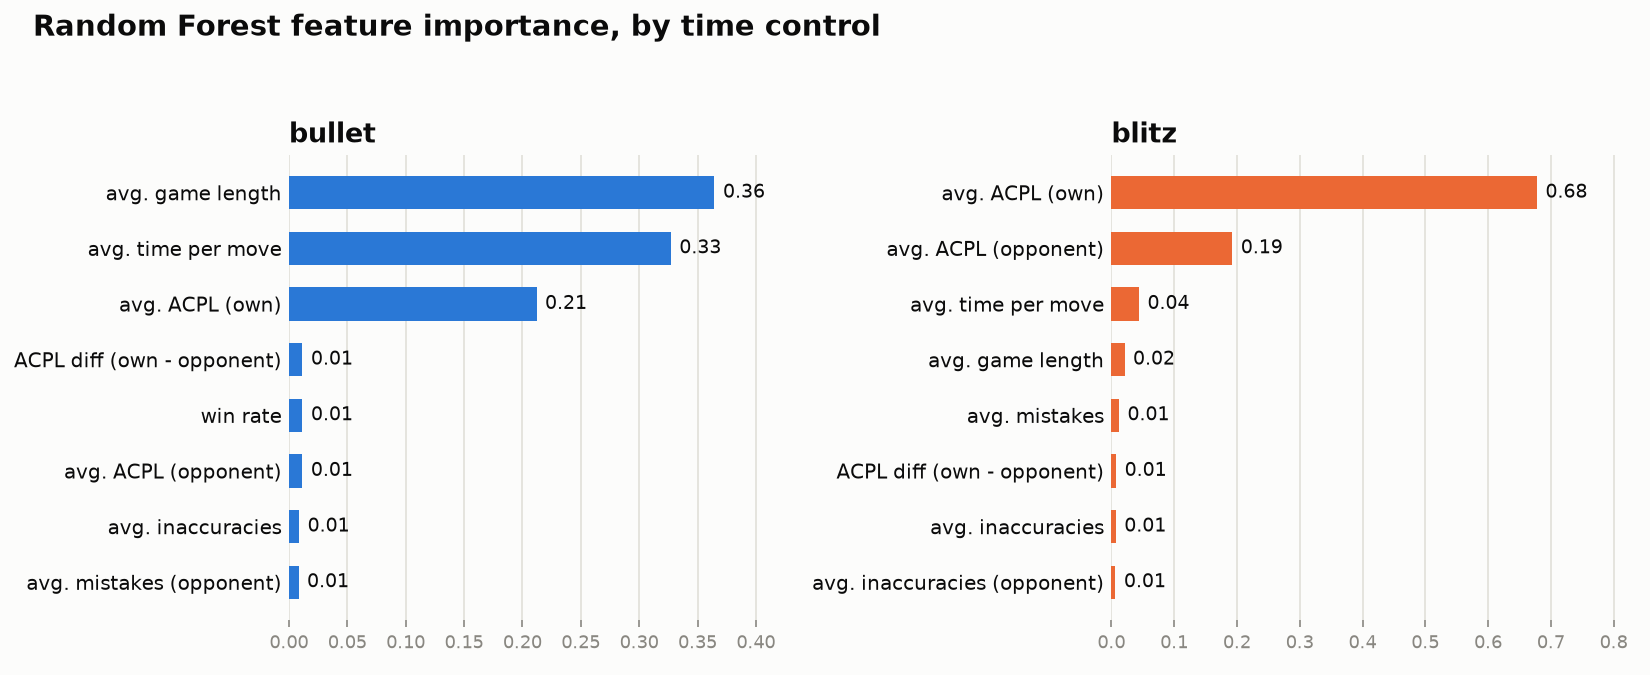
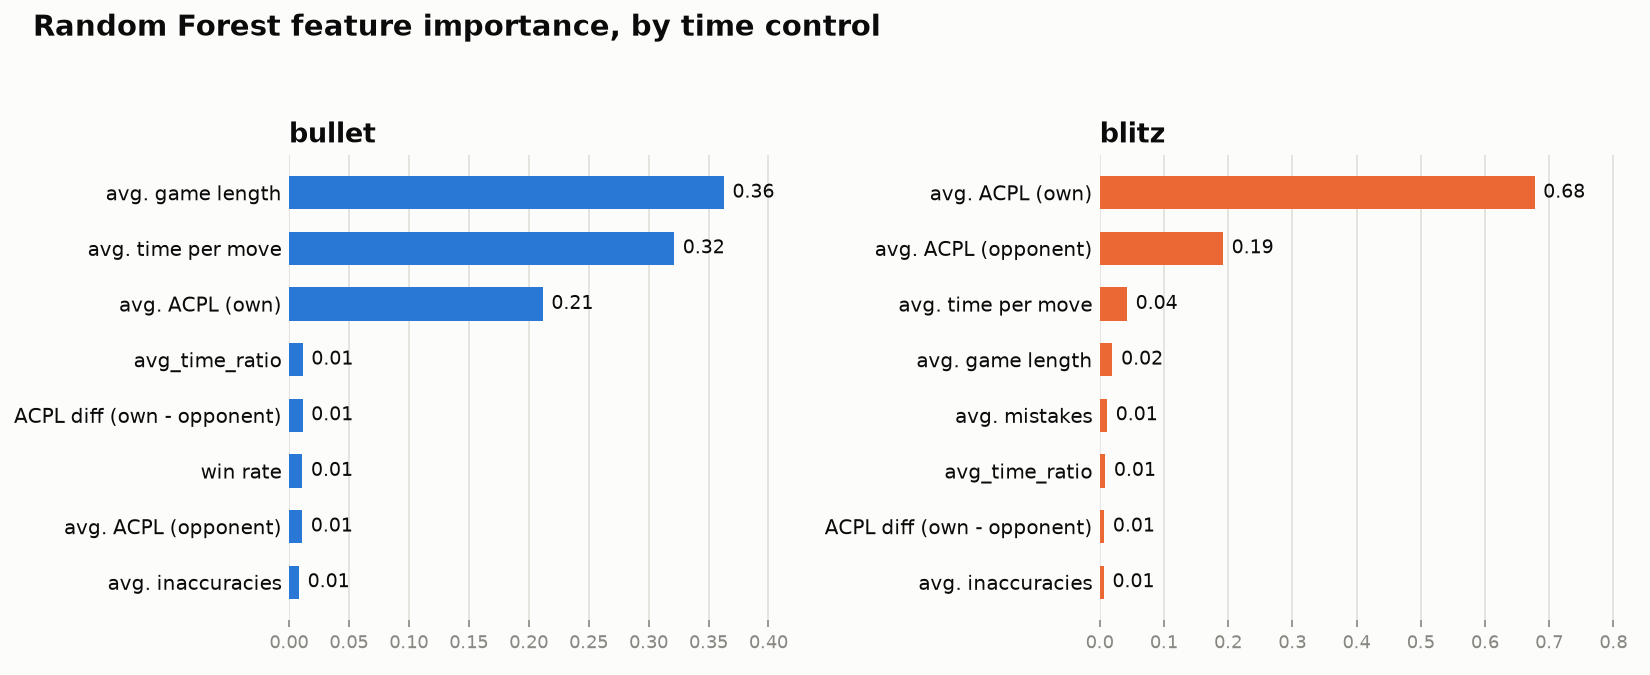
Add time_ratio feature and a spot-check script against unseen players
- extract_clock_features.py: also compute time_ratio (time spent as a
  fraction of that game's own base+increment budget), alongside the raw
  avg_time_per_move. Raw seconds-per-move isn't comparable across time
  controls that share a speed category but have very different clocks
  (60+0 is ~82% of the bullet dataset, but 120+1 has roughly double the
  budget) -- caught from a real player, exclusively 120+1, mispredicted
  by 500+ Elo. Kept alongside the raw feature rather than replacing it:
  a direct test of replacing showed the raw feature carries real signal
  of its own (bullet R^2 0.889 -> 0.847 when removed), so this doesn't
  fully fix predictions for minority-time-control players, but does give
  a small net improvement overall (bullet MAE 196->192, blitz 170->164).
- src/spot_check.py (new): validates a trained model against random
  players from the FULL eligible pool (e.g. 420K for bullet) rather than
  just the ~3,300 actually used for training -- fetches their games live
  from the Lichess API, runs them through the same pipeline app.py uses.
  On a first run this scored BETTER than the formal held-out test MAE
  (155 vs 196), a reassuring sign against overfitting to the training
  distribution.
- README: document both of the above, including the honest limitation of
  the time_ratio fix.

diff --git a/src/spot_check.py b/src/spot_check.py
@@ -1,0 +1,120 @@
+"""
+spot_check.py
+
+Sanity-checks a trained model against RANDOM eligible players from the
+full Lichess dump who were NOT part of the curated training set (the
+formal held-out test set is still a random sample, but only from the
+~3,000-3,400 players select_games_by_player.py actually picked -- this
+instead draws from the full eligible pool, e.g. ~420K bullet players,
+almost none of which the model has ever "seen" even indirectly).
+
+Fetches each sampled player's recent games live from the Lichess API
+(same mechanism app.py uses), analyzes them with Stockfish at the same
+depth training used, and compares the prediction to their actual
+(reported) Elo -- reusing predict_from_pgn.py so this is the exact same
+code path a real user of the Streamlit app would go through.
+
+Usage:
+    python src/spot_check.py --speed-category bullet --n-players 15
+"""
+
+import argparse
+import json
+import random
+import time
+
+import chess.engine
+import joblib
+import pandas as pd
+
+from analyze_with_stockfish import STOCKFISH_PATH
+from lichess_api import fetch_games_pgn, LichessApiError
+from predict_from_pgn import (
+    parse_games_for_player,
+    analyze_player_games,
+    aggregate_player_rows,
+    build_model_input,
+    MIN_GAMES_REQUIRED,
+)
+
+ELIGIBLE_CACHE_PATH = "data/processed/eligible_players_by_category.json"
+DEPTH = 12
+GAMES_PER_PLAYER = 10
+DELAY_BETWEEN_REQUESTS = 3  # seconds; respectful of Lichess's "one request at a time" limit
+
+
+def pick_unseen_players(speed_category: str, n_players: int, already_used: set, seed: int) -> list:
+    with open(ELIGIBLE_CACHE_PATH, encoding="utf-8") as f:
+        eligible = set(json.load(f)[speed_category])
+    candidates = list(eligible - already_used)
+    random.Random(seed).shuffle(candidates)
+    return candidates[: n_players * 3]  # oversample -- some will have too few usable games or fail to fetch
+
+
+def main():
+    parser = argparse.ArgumentParser(
+        description="Spot-checks a trained model against random eligible players outside the training set."
+    )
+    parser.add_argument("--speed-category", required=True, choices=["bullet", "blitz"])
+    parser.add_argument("--n-players", type=int, default=15)
+    parser.add_argument("--seed", type=int, default=0)
+    args = parser.parse_args()
+
+    trained_on = pd.read_csv(f"data/processed/players_{args.speed_category}.csv")
+    already_used = set(trained_on["username"].astype(str))
+    candidates = pick_unseen_players(args.speed_category, args.n_players, already_used, args.seed)
+    print(f"Trying up to {len(candidates)} candidate players to find {args.n_players} usable ones...\n")
+
+    bundle = joblib.load(f"models/model_{args.speed_category}.joblib")
+    engine = chess.engine.SimpleEngine.popen_uci(STOCKFISH_PATH)
+
+    results = []
+    try:
+        for username in candidates:
+            if len(results) >= args.n_players:
+                break
+
+            time.sleep(DELAY_BETWEEN_REQUESTS)
+            try:
+                pgn_text = fetch_games_pgn(username, args.speed_category, GAMES_PER_PLAYER)
+            except LichessApiError as error:
+                print(f"  [skip] {username}: {error}")
+                continue
+            if not pgn_text.strip():
+                print(f"  [skip] {username}: no games returned")
+                continue
+
+            games = parse_games_for_player(pgn_text, username)
+            if len(games) < MIN_GAMES_REQUIRED:
+                print(f"  [skip] {username}: only {len(games)} games")
+                continue
+
+            rows = analyze_player_games(games, username, engine, DEPTH)
+            try:
+                features = aggregate_player_rows(rows, args.speed_category)
+            except ValueError as error:
+                print(f"  [skip] {username}: {error}")
+                continue
+
+            X = build_model_input(features, bundle["feature_columns"], bundle["top_eco"])
+            predicted = bundle["model"].predict(X)[0]
+            actual = features["reported_elo"]
+            error = abs(predicted - actual)
+            results.append((username, actual, predicted, error))
+            print(f"  {username}: actual={actual:.0f}  predicted={predicted:.0f}  error={error:.0f}")
+    finally:
+        engine.quit()
+
+    if not results:
+        print("\nNo usable players found.")
+        return
+
+    df = pd.DataFrame(results, columns=["username", "actual", "predicted", "abs_error"])
+    print(f"\n--- Spot-check results ({args.speed_category}, n={len(df)}) ---")
+    print(f"Mean absolute error:   {df['abs_error'].mean():.1f}")
+    print(f"Median absolute error: {df['abs_error'].median():.1f}")
+    print(f"(for reference, the formal held-out test MAE was {bundle['test_mae']:.1f})")
+
+
+if __name__ == "__main__":
+    main()

diff --git a/src/extract_clock_features.py b/src/extract_clock_features.py
@@ -17,6 +17,20 @@ For each game, computes how many seconds each player spent per move
 that per player across their games -- same "own_"/long-format shape as
 aggregate_by_player.py, so it merges into the same pipeline.
 
+Also computes a NORMALIZED version, time_ratio = avg_time_per_move /
+time_budget(time_control), where time_budget is the same base + 40 *
+increment estimate select_games_by_player.py and aggregate_by_player.py
+use for speed-category classification. Raw seconds-per-move isn't
+comparable across time controls that both count as, say, "bullet" but
+have very different clocks -- a 120+1 bullet game hands out roughly
+double the time budget of a 60+0 one, so a player who exclusively plays
+120+1 will show a higher avg_time_per_move than an equally-skilled 60+0
+player for reasons that have nothing to do with skill. This was caught
+from a real mispredicted player (~1890 actual vs ~1350 predicted) who
+turned out to play 120+1 exclusively, in a bullet dataset that's ~82%
+60+0. time_ratio expresses time usage as a fraction of the game's own
+budget, so it's comparable across variants of the same speed category.
+
 Output has one row per game (same order as the input PGN, none skipped),
 so it lines up positionally with the games_engine.csv row order in the
 same run -- aggregate_by_player.py's --clock-input option checks this
@@ -56,6 +70,18 @@ def parse_time_control(time_control: str):
         return None, None
 
 
+def time_budget(time_control: str):
+    """Same estimate select_games_by_player.py/aggregate_by_player.py use
+    for speed-category classification (base + 40 * increment) -- reused
+    here as the denominator for time_ratio, so "spent X% of a typical
+    allotment per move" means the same thing regardless of which specific
+    base+increment combination a game used."""
+    base, increment = parse_time_control(time_control)
+    if base is None:
+        return None
+    return base + 40 * increment
+
+
 def per_move_times(game: chess.pgn.Game) -> tuple:
     """Returns (white_seconds_per_move, black_seconds_per_move): lists of
     how many seconds each player spent on each of their moves, computed
@@ -88,14 +114,30 @@ def extract_rows(input_path: str) -> list:
 
             headers = game.headers
             white_times, black_times = per_move_times(game)
+            white_avg = (sum(white_times) / len(white_times)) if white_times else None
+            black_avg = (sum(black_times) / len(black_times)) if black_times else None
+
+            # "fair share" per move for THIS game's specific clock, assuming
+            # ~40 moves/side (same assumption select_games_by_player.py's
+            # speed-category estimate makes) -- dividing by this turns an
+            # absolute seconds-per-move number into "typical pace" (~1.0),
+            # "faster than typical" (<1), "slower" (>1), comparable across
+            # different base+increment combinations within the same speed
+            # category (e.g. 60+0 vs 120+1, both "bullet").
+            budget = time_budget(headers.get("TimeControl", ""))
+            per_move_share = budget / 40 if budget else None
+            white_ratio = (white_avg / per_move_share) if (white_avg is not None and per_move_share) else None
+            black_ratio = (black_avg / per_move_share) if (black_avg is not None and per_move_share) else None
 
             rows.append({
                 "white": headers.get("White", ""),
                 "black": headers.get("Black", ""),
                 "white_elo": headers.get("WhiteElo", ""),
                 "black_elo": headers.get("BlackElo", ""),
-                "white_avg_time_per_move": (sum(white_times) / len(white_times)) if white_times else None,
-                "black_avg_time_per_move": (sum(black_times) / len(black_times)) if black_times else None,
+                "white_avg_time_per_move": white_avg,
+                "black_avg_time_per_move": black_avg,
+                "white_time_ratio": white_ratio,
+                "black_time_ratio": black_ratio,
             })
 
     return rows

diff --git a/src/aggregate_by_player.py b/src/aggregate_by_player.py
@@ -88,12 +88,12 @@ def estimate_speed_category(time_control: str) -> str:
 
 
 def merge_clock_features(games: pd.DataFrame, clock_path: str) -> pd.DataFrame:
-    """Merges in white_avg_time_per_move / black_avg_time_per_move from
-    extract_clock_features.py's output. The two files are matched by ROW
-    POSITION (both come from processing the same PGN in the same order),
-    so this checks White/Black Elo line up before trusting the merge --
-    if they don't, the clock columns are skipped entirely rather than
-    silently attaching the wrong game's time data to a player."""
+    """Merges in white/black_avg_time_per_move and white/black_time_ratio
+    from extract_clock_features.py's output. The two files are matched by
+    ROW POSITION (both come from processing the same PGN in the same
+    order), so this checks White/Black Elo line up before trusting the
+    merge -- if they don't, the clock columns are skipped entirely rather
+    than silently attaching the wrong game's time data to a player."""
     clock = pd.read_csv(clock_path)
 
     if len(clock) != len(games):
@@ -109,8 +109,9 @@ def merge_clock_features(games: pd.DataFrame, clock_path: str) -> pd.DataFrame:
         return games
 
     games = games.copy()
-    games["white_avg_time_per_move"] = clock["white_avg_time_per_move"].values
-    games["black_avg_time_per_move"] = clock["black_avg_time_per_move"].values
+    for col in ("white_avg_time_per_move", "black_avg_time_per_move", "white_time_ratio", "black_time_ratio"):
+        if col in clock.columns:
+            games[col] = clock[col].values
     return games
 
 
@@ -130,6 +131,7 @@ def to_long_format(games: pd.DataFrame) -> pd.DataFrame:
     own_acpl means something different in a game where the opponent also
     struggled versus one where they played cleanly."""
     has_clock = "white_avg_time_per_move" in games.columns and "black_avg_time_per_move" in games.columns
+    has_time_ratio = "white_time_ratio" in games.columns and "black_time_ratio" in games.columns
 
     sides = []
     for side, opponent, win_result in (("white", "black", "1-0"), ("black", "white", "0-1")):
@@ -152,6 +154,8 @@ def to_long_format(games: pd.DataFrame) -> pd.DataFrame:
         }
         if has_clock:
             columns["own_avg_time_per_move"] = games[f"{side}_avg_time_per_move"]
+        if has_time_ratio:
+            columns["own_time_ratio"] = games[f"{side}_time_ratio"]
         sides.append(pd.DataFrame(columns))
 
     long_df = pd.concat(sides, ignore_index=True)
@@ -226,6 +230,8 @@ def aggregate_players(long_df: pd.DataFrame, min_games: int, max_games: int) -> 
     numeric_agg["acpl_diff"] = numeric_agg["avg_acpl"] - numeric_agg["avg_opponent_acpl"]
     if "own_avg_time_per_move" in capped.columns:
         numeric_agg["avg_time_per_move"] = capped.groupby("username")["own_avg_time_per_move"].mean()
+    if "own_time_ratio" in capped.columns:
+        numeric_agg["avg_time_ratio"] = capped.groupby("username")["own_time_ratio"].mean()
 
     categorical_agg = capped.groupby("username").agg(
         main_eco=("eco", mode_or_empty),

diff --git a/src/predict_from_pgn.py b/src/predict_from_pgn.py
@@ -20,7 +20,7 @@ import chess.pgn
 import pandas as pd
 
 from analyze_with_stockfish import get_eval_sequence, compute_move_quality
-from extract_clock_features import per_move_times
+from extract_clock_features import per_move_times, time_budget
 from aggregate_by_player import estimate_speed_category
 
 MIN_GAMES_REQUIRED = 5
@@ -73,6 +73,11 @@ def analyze_player_games(games: list, username: str, engine: chess.engine.Simple
 
         white_times, black_times = per_move_times(game)
         own_times = white_times if side == "white" else black_times
+        own_avg_time = (sum(own_times) / len(own_times)) if own_times else None
+
+        budget = time_budget(headers.get("TimeControl", ""))
+        per_move_share = budget / 40 if budget else None
+        own_time_ratio = (own_avg_time / per_move_share) if (own_avg_time is not None and per_move_share) else None
 
         rows.append({
             "own_elo": int(own_elo_str) if own_elo_str.isdigit() else None,
@@ -88,7 +93,8 @@ def analyze_player_games(games: list, username: str, engine: chess.engine.Simple
             "num_plies": len(evals) - 1,
             "eco": headers.get("ECO", ""),
             "speed_category": estimate_speed_category(headers.get("TimeControl", "")),
-            "avg_time_per_move": (sum(own_times) / len(own_times)) if own_times else None,
+            "avg_time_per_move": own_avg_time,
+            "time_ratio": own_time_ratio,
         })
 
     return rows
@@ -126,6 +132,7 @@ def aggregate_player_rows(rows: list, speed_category: str) -> dict:
         "acpl_diff": avg_acpl - avg_opponent_acpl,
         "win_rate": df["won"].mean(),
         "avg_time_per_move": df["avg_time_per_move"].mean(),
+        "avg_time_ratio": df["time_ratio"].mean(),
         "main_eco": eco_mode.iat[0] if not eco_mode.empty else "",
         "reported_elo": df["own_elo"].mean(),  # for display/comparison only -- NOT a model input
     }
@@ -153,6 +160,7 @@ def build_model_input(features: dict, feature_columns: list, top_eco: list) -> p
         "acpl_diff": features["acpl_diff"],
         "win_rate": features["win_rate"],
         "avg_time_per_move": features["avg_time_per_move"],
+        "avg_time_ratio": features["avg_time_ratio"],
         f"main_eco_grouped_{eco_grouped}": 1,
     }
 

diff --git a/src/train_baseline.py b/src/train_baseline.py
@@ -106,6 +106,26 @@ def build_features(df: pd.DataFrame, speed_category: str, top_eco=None):
         ]
     if "avg_time_per_move" in df.columns:
         numeric_features.append("avg_time_per_move")
+    if "avg_time_ratio" in df.columns:
+        # avg_time_per_move in raw seconds isn't directly comparable across
+        # time controls that share a speed category but have different
+        # clocks (e.g. 60+0 vs 120+1, both "bullet") -- caught from a real
+        # player who plays 120+1 exclusively in an ~82%-60+0 bullet dataset
+        # and was mispredicted by over 500 Elo. avg_time_ratio expresses
+        # time usage as a fraction of that game's own budget instead (see
+        # extract_clock_features.py's time_budget()).
+        #
+        # It's kept ALONGSIDE avg_time_per_move, not as a replacement: a
+        # direct test of replacing it made the model meaningfully WORSE
+        # (bullet R^2 0.889 -> 0.847) -- apparently raw play speed carries
+        # real signal beyond "speed relative to this game's clock" (faster
+        # players may just be objectively faster, in absolute terms, more
+        # or less regardless of the specific time control). Keeping both
+        # gives a small net improvement overall, though it doesn't fully
+        # fix predictions for players who mostly play a minority time
+        # control within their speed category -- the model still leans on
+        # the raw feature, which is confounded for exactly those players.
+        numeric_features.append("avg_time_ratio")
 
     # main_speed_category has no variance once the dataset is restricted to
     # a single speed, so it wouldn't survive drop_first's collinearity

diff --git a/README.md b/README.md
@@ -17,8 +17,8 @@ time control, evaluated on a held-out 20% of players:
 
 | Time control | Players | Best model | MAE (Elo points) | R² |
 |---|---|---|---|---|
-| Bullet | 3,258 | Gradient Boosting | 196 | 0.887 |
-| Blitz | 3,437 | Random Forest | 170 | 0.915 |
+| Bullet | 3,258 | Gradient Boosting | 192 | 0.889 |
+| Blitz | 3,437 | Gradient Boosting | 164 | 0.918 |
 
 For context: always predicting the dataset mean gets a MAE of roughly
 650-700 points, so the model is explaining the large majority of the
@@ -224,6 +224,23 @@ code:
   noise (an opponent's blunder, a bad day). Averaging Stockfish-derived
   features over several games of the same player is much more stable, and
   is what actually makes prediction from move quality feasible at all.
+
+- **Normalize time-per-move by that game's own clock, but don't rely on it
+  alone.** "Bullet" spans several actual time controls with very different
+  clocks (60+0 is ~82% of this dataset, but 120+1 -- with roughly double
+  the budget -- makes up most of the rest). A raw seconds-per-move average
+  isn't comparable across them: a player who exclusively plays 120+1 got
+  mispredicted by 500+ Elo points because their time usage looked nothing
+  like the 60+0 majority the model mostly learned from. `avg_time_ratio`
+  (time spent as a fraction of that specific game's budget) fixes the
+  comparability problem -- but a direct test of *replacing*
+  `avg_time_per_move` with it made the model meaningfully worse overall
+  (bullet R² 0.889 -> 0.847), so it's kept as an additional feature rather
+  than a replacement. That means minority-time-control players like the
+  one above aren't fully fixed -- the model still leans on the raw,
+  confounded feature where it's more informative for the majority. A
+  cleaner fix would need a per-time-control model or an explicit
+  interaction term, not just another averaged feature.
 
 ## Next steps
 
